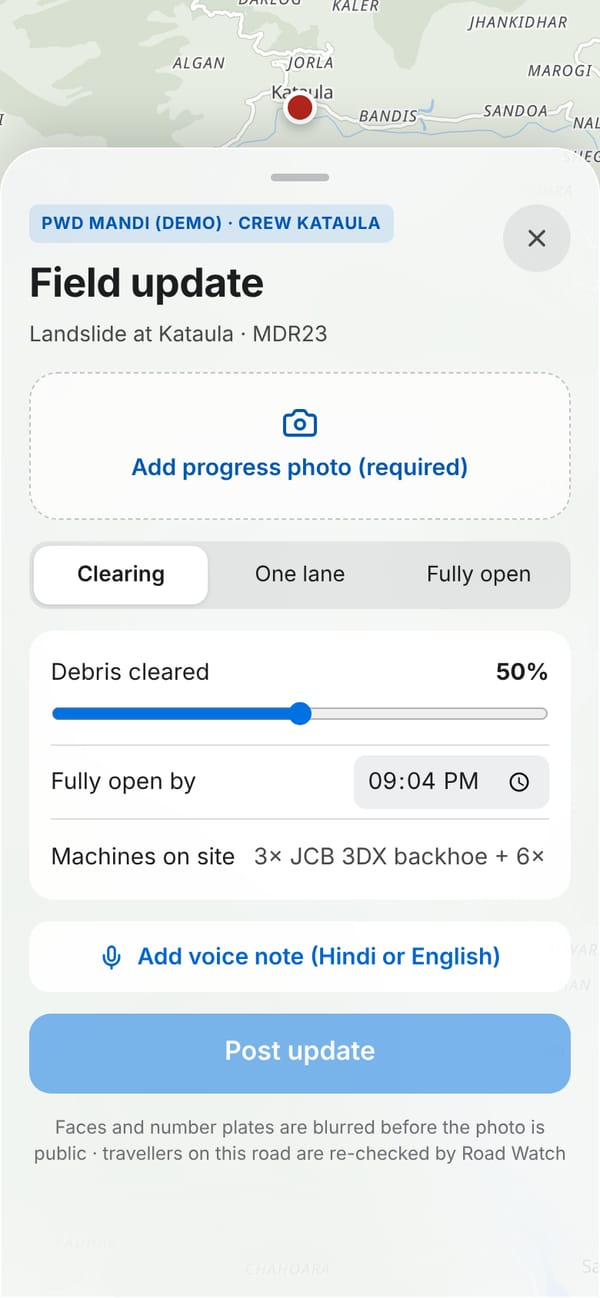
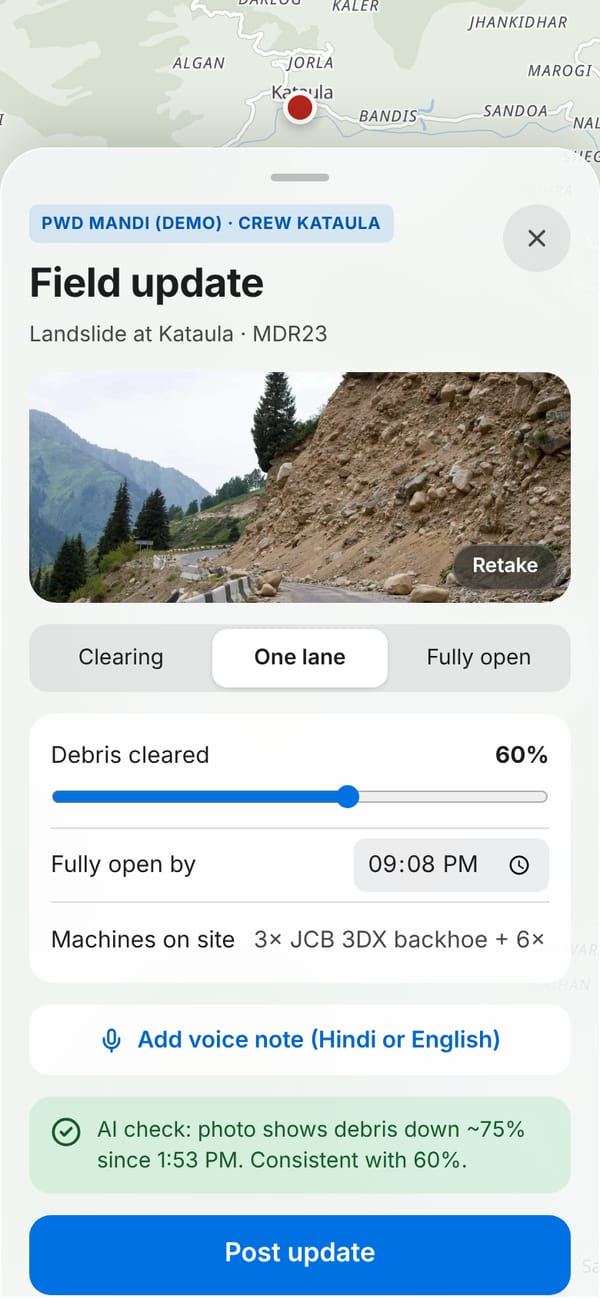
README UPDATE (#32)
* docs: start manual test log

* test-log: switch to end-to-end flows, log B1 (report location)

* test-log: F1 passed, log B2 + B3

* fix(B1): report from anywhere — "Not in Himachal? Pick a spot" on /report

When GPS is off or outside Himachal, /report offers demo spots in PWD Mandi's
district or a pin on our road layer. The photo goes through the same AI
pipeline; the report and any new event are demo data marked placed-on-map,
still expire like real reports, only merge into demo events, earn no points.

* fix(B2,B3): trip alert titles + Hindi summaries always in Devanagari

B2: "Your trip to Manali changed" instead of "Your Your location → Manali".
B3: Latin-script Hindi from the claim/slope models is re-translated by a small
Meta Spark job (translate_hindi), in parallel with the verifier.

* docs: B2 + B3 fixed (test log, decisions, tracker)

* docs: close manual test session (status + final demo-reset)

* test-log: B4 downloaded photo accepted as a live landslide

* fix(B4): downloaded or forwarded photos no longer become verified pins

Library photos need a camera date to count (no file-time fallback), and the
verifier flags watermarks, news logos, screenshots and press photos. Such
uploads stay pending: no pin, no status change, no points. Map-placed demo
reports are exempt.

* README for judges: US context, problem, connected loop, vs Google Maps, screenshots, Meta model map

* README: judge path covers crew update loop, Slope Sentinel, Road Watch
[…]

diff --git a/README.md b/README.md
@@ -8,7 +8,7 @@
 
 **Waze tells you traffic is slow. Pathfinder tells you *why*, whether *your* car fits through, and when the road crew will have it open.**
 
-[**▶ Watch the 3-minute demo**](https://youtu.be/VIDEO_ID) · [**Open the live app**](https://pathfinder1-ten.vercel.app) · [Try it as a judge](#-try-it-in-2-minutes)
+[**▶ Watch the 3-minute demo**](https://youtu.be/VIDEO_ID) · [**Open the live app**](https://pathfinder1-ten.vercel.app) · [Try it as a judge](#-try-it--a-judges-path-5-minutes)
 
 ![Meta Muse Spark Open](https://img.shields.io/badge/Meta-Muse_Spark_Open_(open_weights)-0668E1)
 ![Muse Spark 1.3](https://img.shields.io/badge/Meta-Muse_Spark_1.3-0668E1)
@@ -127,9 +127,19 @@ flowchart LR
 <td width="33%" align="center"><img src="docs/screenshots/11-crew-my-job.jpg" width="240" alt="Crew My job screen"/><br/><b>Crew "My job"</b><br/><sub>For the supervisor on site: on-duty switch, the job, directions, "I've arrived", progress updates.</sub></td>
 </tr>
 <tr>
-<td align="center"><img src="docs/screenshots/12-field-update.jpg" width="240" alt="Field update"/><br/><b>Field update from the site</b><br/><sub>Progress photo (required) + % cleared + Hindi voice note. SAM checks the photo against the last one; mismatches are flagged, never hidden.</sub></td>
 <td align="center"><img src="docs/screenshots/05-vehicle-fit.jpg" width="240" alt="Can my vehicle cross"/><br/><b>Can my vehicle cross?</b><br/><sub>Vehicle width from a spec table, gap from SAM measurements, maths in code. Two models look at road + vehicle photos and can only make the verdict <i>stricter</i>.</sub></td>
 <td align="center"><img src="docs/screenshots/06-slope-sentinel.jpg" width="240" alt="Slope Sentinel"/><br/><b>Slope Sentinel</b><br/><sub>Photos of the hillside <i>above</i> the road, read like a field geologist (cracks, seepage, loose rock) × rain forecast × slide history → watch / elevated / high. Advice only — never closes a road.</sub></td>
+<td align="center"><sub><b>Field updates from the site</b> — progress photo (required) + % cleared + Hindi voice note; SAM checks the photo against the last one, mismatches are flagged, never hidden. <b>See the live loop below ↓</b></sub></td>
+</tr>
+</table>
+
+### The loop, live — a crew update reaches every traveller
+
+<table>
+<tr>
+<td width="33%" align="center"><img src="docs/screenshots/12-field-update.jpg" width="240" alt="Crew posts a field update"/><br/><b>1 · Crew posts from the site</b><br/><sub>"One lane, 60% cleared". AI check: "photo shows debris down ~75% — consistent with 60%".</sub></td>
+<td width="33%" align="center"><img src="docs/screenshots/13-event-after-crew-update.jpg" width="240" alt="Event updated for travellers"/><br/><b>2 · The event updates for everyone</b><br/><sub>Closed → one lane open, new road-left measurement, clearing window and the crew's update in English + Hindi.</sub></td>
+<td width="33%" align="center"><img src="docs/screenshots/14-road-watch-alert.jpg" width="240" alt="Road Watch alert"/><br/><b>3 · Travellers watching the trip get an alert</b><br/><sub>Road Watch re-plans with Muse Wonder: "Kataula is now one lane (was closed)…" + a new departure time.</sub></td>
 </tr>
 </table>
 
@@ -144,7 +154,11 @@ flowchart LR
 <tr>
 <td align="center"><img src="docs/screenshots/04-annotated-photo.jpg" width="240" alt="AI-annotated photo"/><br/><b>AI-annotated evidence</b><br/><sub>Labels are drawn by code on a copy — the photo itself is never altered. Faces and plates blurred.</sub></td>
 <td align="center"><img src="docs/screenshots/07-drive-watch.jpg" width="240" alt="Drive Watch"/><br/><b>Drive Watch</b><br/><sub>Runs next to Google Maps: speaks hazards 5 km and 1 km ahead in English or Hindi, live Road Watch changes, keeps the screen on.</sub></td>
-<td align="center"><img src="docs/screenshots/08-nearby.jpg" width="240" alt="Nearby"/><br/><b>Nearby</b><br/><sub>Everything within 5–50 km, ranked, with a one-line AI summary and a rain-risk layer.</sub></td>
+<td align="center"><img src="docs/screenshots/08-nearby.jpg" width="240" alt="Nearby"/><br/><b>Nearby</b><br/><sub>Everything within 5–50 km, ranked, with a one-line AI summary.</sub></td>
+</tr>
+<tr>
+<td align="center"><img src="docs/screenshots/15-rain-risk-replay.jpg" width="240" alt="Rain risk"/><br/><b>Rain risk</b><br/><sub>Forecast rain × recent slides → purple risk areas. Shown here: a replay of a real monsoon day (13 Aug 2025) around Kullu.</sub></td>
+<td></td><td></td>
 </tr>
 </table>
 
@@ -244,7 +258,7 @@ Next.js 15 (App Router) + TypeScript on **Vercel** · **Supabase** (Postgres + P
 
 ---
 
-## 🚀 Try it in 2 minutes
+## 🚀 Try it — a judge's path (5 minutes)
 
 **Live app:** https://pathfinder1-ten.vercel.app — best on a phone, or a narrow browser window.
 
@@ -252,6 +266,11 @@ Next.js 15 (App Router) + TypeScript on **Vercel** · **Supabase** (Postgres + P
 2. **Report** (works from anywhere): tap **Report** → when it says *Outside Himachal*, use **Pick a spot** to drop the report on a demo road → upload any road photo.
 3. **District office:** go to `/official/login` → **PWD / district office** → choose **Mandi** → Department ID **`PWD-MANDI-DEMO`**, password **`himachal-demo`**. Scroll to the crew card → **Landslide at Kataula · Build crew** → **Approve & send**.
 4. **On-site crew:** sign out → `/official/login` → **On-site crew member** → Crew ID **`CREW-MANDI-DEMO`**, password **`himachal-crew`** (Neelam Thakur, a supervisor near Kataula). The job you just sent is waiting under **My job**.
+5. **Close the loop:** as Neelam, tap **I've arrived** → **Post progress update** → add any photo, choose **One lane**, 60% → **Post**. Now open **Mandi → Manali** as a traveller (another browser or a private window): Kataula shows *one lane*, with a **repair crew working** card and the crew's update on the event page.
+6. **Slope Sentinel:** on the map, tap a purple ⛰ marker → warning signs read from the hillside photo, rain in the next 24 h, slides nearby, advice in English/Hindi. To see rain risk on a dry day, open [Nearby around Kullu with a replay of a real monsoon day](https://pathfinder1-ten.vercel.app/nearby?lat=31.957&lng=77.109&name=Kullu&r=25&replay=1).
+7. **Road Watch:** on a route, switch on **Watch this trip** → when an event on it changes (step 5 does this), the 🔔 on the home screen gets an alert with the new plan.
+
+More to poke at: **Nearby** (radius 5–50 km + AI summary) · **Share alert card** on any event · [`/verification`](https://pathfinder1-ten.vercel.app/verification) (how often the two AI models agree) · **Me** (scout points and badges) · `/himachal` (top 10 problems across the state).
 
 Demo accounts only change demo data (fictional people and machines); real travellers never see it.
 
